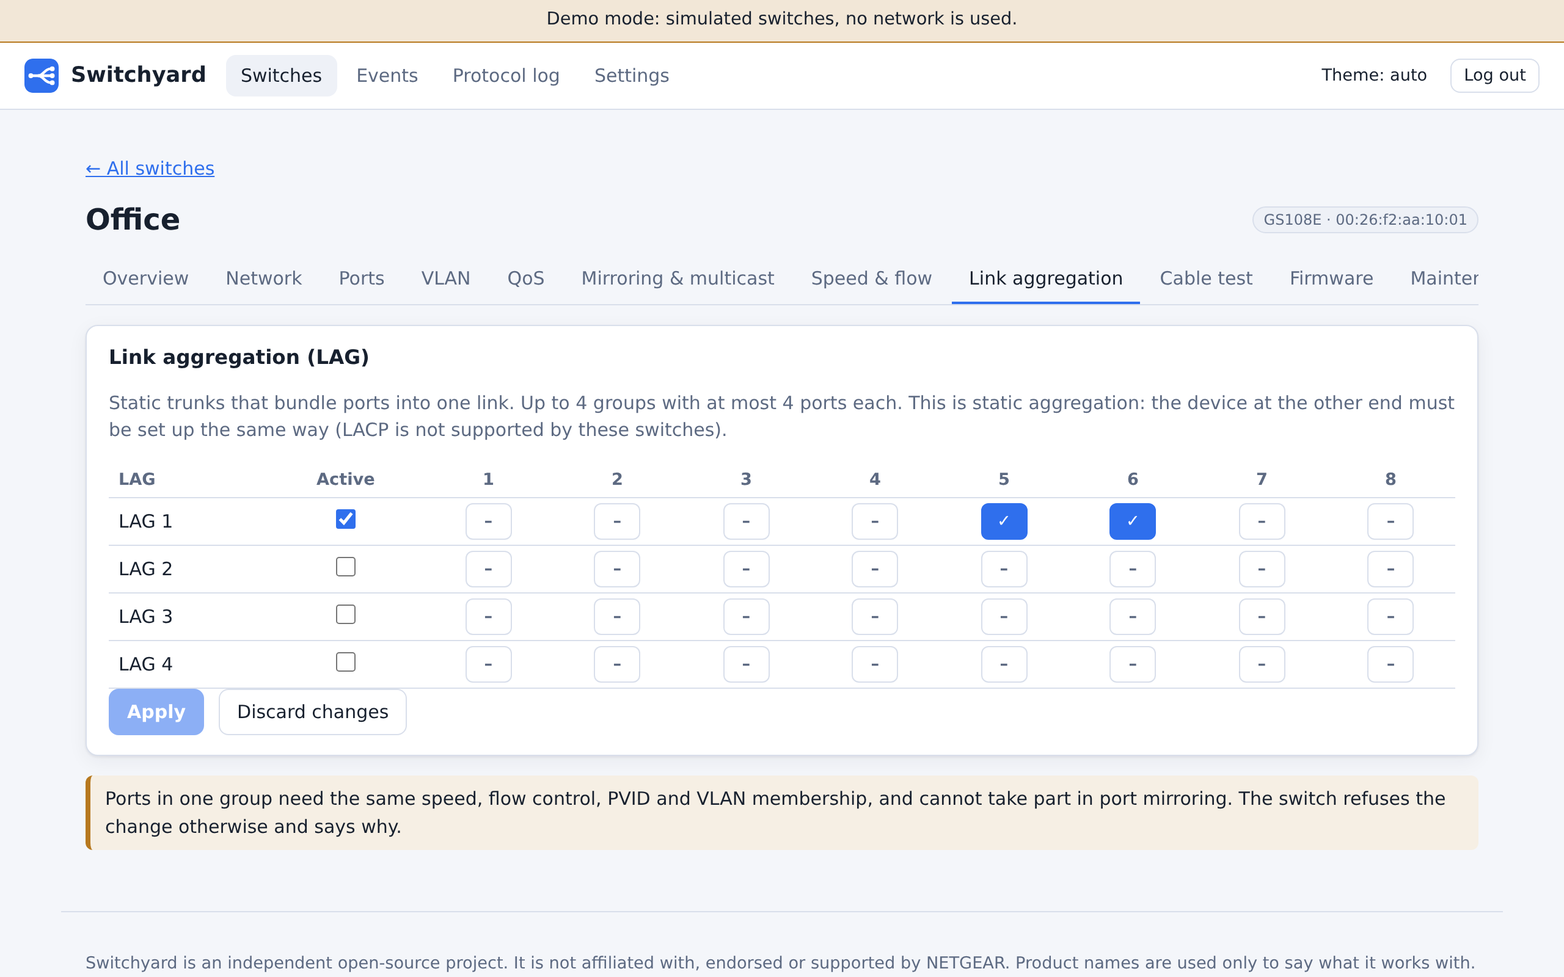
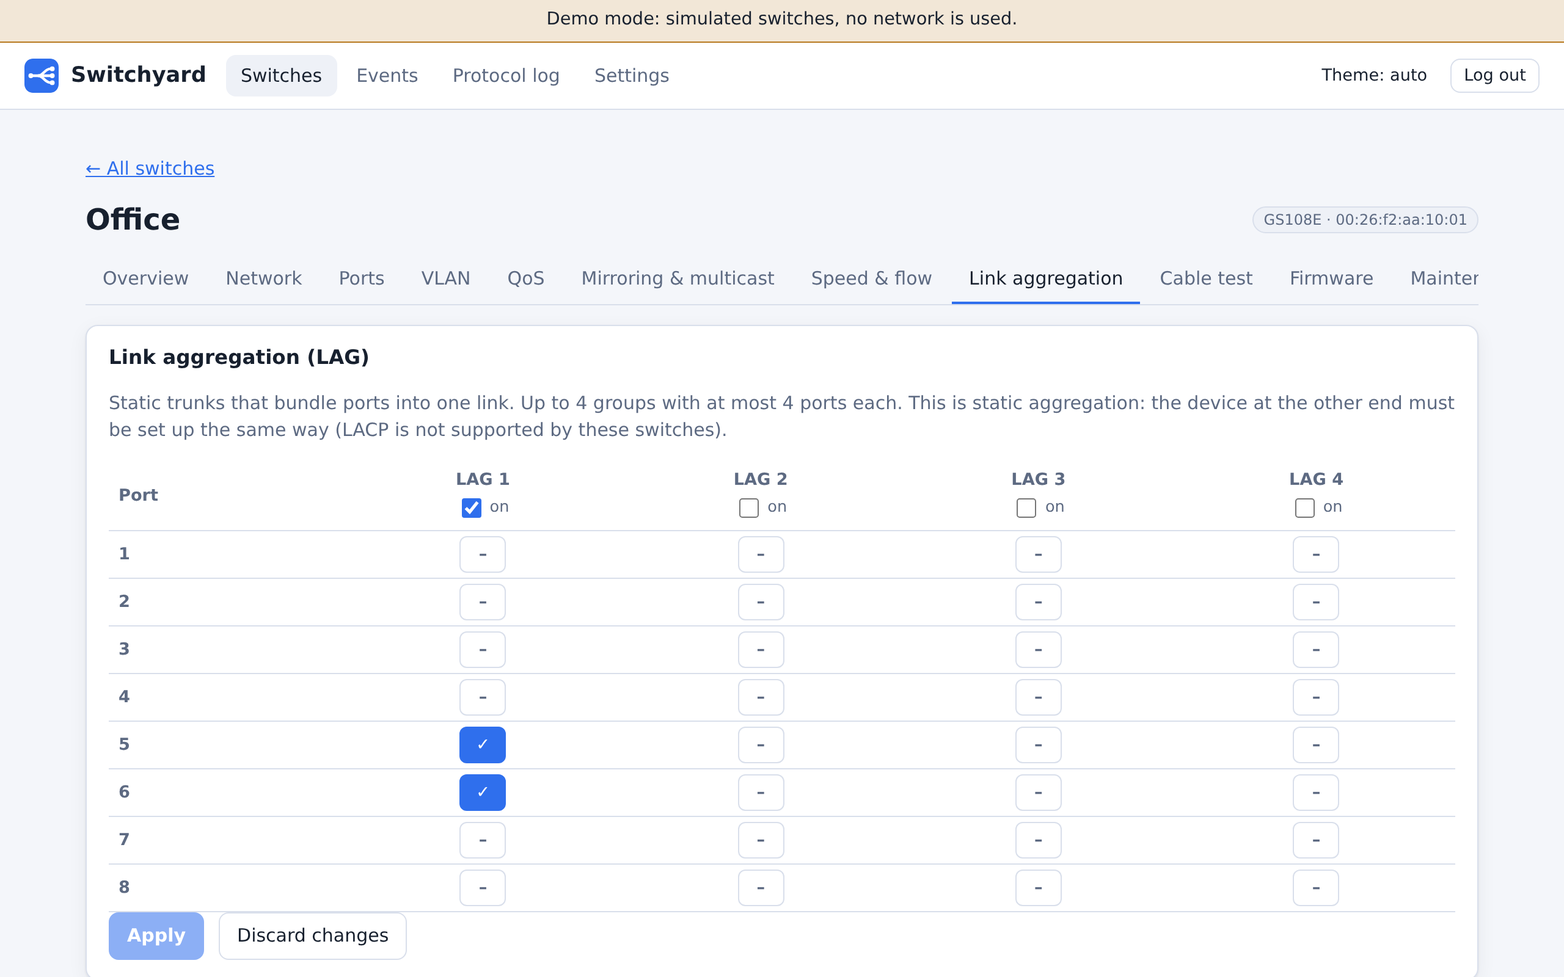
Phone layout without nested scrolling (#55)
- section drop-down instead of the tab strip on small screens; top bar not sticky
- port tables become one block per port (statistics in two columns)
- VLAN, port-group and LAG matrices: ports as rows, VLANs/groups as columns
- chart drawn at the container width; browser test checks every section at 390 px

diff --git a/src/switchyard/web/static/views/tabs.js b/src/switchyard/web/static/views/tabs.js
@@ -6,6 +6,18 @@ import { confirmDialog, field, modal, run, section, select, showError, toast, un
 
 const portName = (S, p) => (S.state.device.port_labels || {})[p] || '';
 const vlanName = (S, id) => (S.state.device.vlan_names || {})[id] || '';
+const portHead = (S, p) => h('th', { scope: 'row', class: 'porthead' }, String(p), portName(S, p) ? h('small', { class: 'muted pname' }, portName(S, p)) : null);
+
+// On small screens a table with this class shows one block per row, each cell with its column name.
+export function stackable(table) {
+  const names = [...table.querySelectorAll('thead th')].map((th) => th.textContent.trim());
+  table.classList.add('stack');
+  for (const row of table.querySelectorAll('tbody tr')) {
+    [...row.children].forEach((cell, i) => { if (names[i]) cell.dataset.label = names[i]; });
+  }
+  return table;
+}
+
 const speedClass = (p) => (p.up ? `s${Math.min(p.speed_mbps || 10, 10000)}` : 'down');
 
 function portPanel(ports, labels = {}) {
@@ -118,13 +130,14 @@ async function ports(host, S) {
         h('td', { class: 'num' }, String(p.crc_errors ?? 0))));
     }
     previous = { t, rows: new Map(rows.map((p) => [p.port, p])) };
+    if (body.parentNode) stackable(body.parentNode);
   };
   draw(S.state.ports, Date.now());
   const clearBtn = h('button', { class: 'btn', 'data-testid': 'clear-counters' }, 'Clear counters');
   clearBtn.addEventListener('click', () => applier(S)(clearBtn, () => post(`${dev(S.mac)}/stats/reset`), 'Counters cleared.'));
   host.append(section('Port status and statistics',
-    h('div', { class: 'table-wrap' }, h('table', {},
-      h('thead', {}, h('tr', {}, ...['Port', 'Link', 'Duplex', 'Received', 'Rx rate', 'Sent', 'Tx rate', 'CRC errors'].map((t, i) => h('th', { class: i > 2 ? 'num' : '' }, t)))), body)),
+    h('div', { class: 'table-wrap' }, stackable(h('table', { class: 'compact' },
+      h('thead', {}, h('tr', {}, ...['Port', 'Link', 'Duplex', 'Received', 'Rx rate', 'Sent', 'Tx rate', 'CRC errors'].map((t, i) => h('th', { class: i > 2 ? 'num' : '' }, t)))), body))),
     h('p', {}, clearBtn)));
   poll(S, async () => draw((await get(`${dev(S.mac)}/ports`)).ports, Date.now()), 3000);
 
@@ -140,7 +153,8 @@ async function ports(host, S) {
       chartBox.append(h('p', { class: 'muted', 'data-testid': 'chart-empty' }, hist.interval ? `Collecting data… the monitor reads the ports every ${hist.interval} s.` : 'The monitor is off. Set monitor.interval_seconds to record traffic history.'));
       return;
     }
-    chartBox.append(drawChart(points), h('div', { class: 'chart-legend' }, h('span', {}, h('i', { class: 'rx' }), 'Received'), h('span', {}, h('i', { class: 'tx' }), 'Sent')));
+    const width = Math.max(320, Math.min(900, chartBox.clientWidth || 760));
+    chartBox.append(drawChart(points, { width, height: width < 500 ? 200 : 220 }), h('div', { class: 'chart-legend' }, h('span', {}, h('i', { class: 'rx' }), 'Received'), h('span', {}, h('i', { class: 'tx' }), 'Sent')));
   };
   which.addEventListener('change', () => drawHistory().catch(showError));
   range.addEventListener('change', () => drawHistory().catch(showError));
@@ -176,8 +190,7 @@ async function vlan(host, S) {
   const matrixBox = h('div', { class: 'table-wrap', 'data-testid': 'vlan-matrix' });
   const applyBtn = h('button', { class: 'btn primary', 'data-testid': 'vlan-apply' }, 'Apply');
   const discard = h('button', { class: 'btn', 'data-testid': 'vlan-discard' }, 'Discard changes');
-  const head = (extra) => h('thead', {}, h('tr', {}, h('th', {}, 'VLAN'), ...allPorts.map((p) => h('th', {}, String(p))), extra));
-
+  
   if (v.mode.startsWith('port')) {
     const original = v.port_vlans.map((g) => ({ id: g.id, members: new Set(g.members) }));
     let model = original.map((g) => ({ id: g.id, members: new Set(g.members) }));
@@ -186,9 +199,11 @@ async function vlan(host, S) {
       const dirty = snapshot(model) !== snapshot(original);
       dirtyNote.hidden = !dirty; applyBtn.disabled = !dirty;
       S.ctx.setDirty(() => dirty);
-      clear(matrixBox).append(h('table', { class: 'matrix' }, head(null), h('tbody', {}, ...model.map((g) => h('tr', { 'data-testid': `vlan-row-${g.id}` },
-        h('td', {}, `Group ${g.id}`), ...allPorts.map((p) => h('td', {}, h('button', { class: `cell ${g.members.has(p) ? 'M' : ''}`, 'aria-pressed': String(g.members.has(p)), 'aria-label': `Group ${g.id}, port ${p}`, 'data-testid': `cell-${g.id}-${p}`,
-          onclick: () => { if (g.members.has(p)) g.members.delete(p); else g.members.add(p); draw(); } }, g.members.has(p) ? '✓' : '–'))))))));
+      clear(matrixBox).append(h('table', { class: 'matrix' },
+        h('thead', {}, h('tr', {}, h('th', {}, 'Port'), ...model.map((g) => h('th', { 'data-testid': `vlan-row-${g.id}` }, `Group ${g.id}`)))),
+        h('tbody', {}, ...allPorts.map((p) => h('tr', {}, portHead(S, p),
+          ...model.map((g) => h('td', {}, h('button', { class: `cell ${g.members.has(p) ? 'M' : ''}`, 'aria-pressed': String(g.members.has(p)), 'aria-label': `Group ${g.id}, port ${p}`, 'data-testid': `cell-${g.id}-${p}`,
+            onclick: () => { if (g.members.has(p)) g.members.delete(p); else g.members.add(p); draw(); } }, g.members.has(p) ? '✓' : '–'))))))));
     };
     draw();
     applyBtn.addEventListener('click', () => apply(applyBtn, () => put(`${dev(S.mac)}/vlan/port-based`, { vlans: model.map((g) => ({ id: g.id, members: [...g.members].sort((a, b) => a - b) })) }), 'VLANs saved.'));
@@ -229,13 +244,15 @@ async function vlan(host, S) {
       if (!options.some(([id]) => Number(id) === pvid[p])) options.unshift([pvid[p], `${pvid[p]} !`]);
       const sel = select(options, pvid[p], { 'aria-label': `PVID of port ${p}`, 'data-testid': `pvid-${p}` });
       sel.addEventListener('change', () => { pvid[p] = Number(sel.value); draw(); });
-      return h('td', {}, sel);
+      return h('td', { class: 'pvid' }, sel);
     };
-    clear(matrixBox).append(h('table', { class: 'matrix' }, head(h('th', {}, '')),
-      h('tbody', {}, ...vlans.map((vl) => h('tr', { 'data-testid': `vlan-row-${vl.id}` }, h('td', {}, `VLAN ${vl.id}`, vlanName(S, vl.id) ? h('small', { class: 'muted' }, ` ${vlanName(S, vl.id)}`) : null), ...allPorts.map((p) => h('td', {}, cellOf(vl, p))),
-        h('td', {}, vl.id === 1 ? null : h('button', { class: 'btn small ghost', 'aria-label': `Remove VLAN ${vl.id}`, 'data-testid': `remove-vlan-${vl.id}`,
-          onclick: () => { vlans = vlans.filter((x) => x !== vl); for (const p of allPorts) if (pvid[p] === vl.id) pvid[p] = 1; draw(); } }, 'Remove')))),
-        h('tr', { class: 'pvid-row' }, h('td', {}, h('b', {}, 'PVID')), ...allPorts.map(pvidCell), h('td', {})))));
+    const vlanHead = (vl) => h('th', { 'data-testid': `vlan-row-${vl.id}` },
+      h('div', {}, `VLAN ${vl.id}`), vlanName(S, vl.id) ? h('small', { class: 'muted vname' }, vlanName(S, vl.id)) : null,
+      vl.id === 1 ? null : h('button', { class: 'btn small ghost xs', 'aria-label': `Remove VLAN ${vl.id}`, 'data-testid': `remove-vlan-${vl.id}`, title: `Remove VLAN ${vl.id}`,
+        onclick: () => { vlans = vlans.filter((x) => x !== vl); for (const p of allPorts) if (pvid[p] === vl.id) pvid[p] = 1; draw(); } }, '✕'));
+    clear(matrixBox).append(h('table', { class: 'matrix' },
+      h('thead', {}, h('tr', {}, h('th', {}, 'Port'), ...vlans.map(vlanHead), h('th', {}, 'PVID'))),
+      h('tbody', {}, ...allPorts.map((p) => h('tr', {}, portHead(S, p), ...vlans.map((vl) => h('td', {}, cellOf(vl, p))), pvidCell(p))))));
   };
   addBtn.addEventListener('click', () => {
     const id = Number(newId.value);
@@ -271,7 +288,7 @@ async function qos(host, S) {
   const rates = Object.entries(S.state.rate_codes).map(([code, kbit]) => [code, fmtLimit(kbit)]);
   const mode = select([['dot1p', '802.1p based'], ['port', 'Port based']], q.mode, { 'data-testid': 'qos-mode' });
   const prio = {}; const ingress = {}; const egress = {}; const storm = {};
-  const table = h('table', {}, h('thead', {}, h('tr', {}, ...['Port', 'Priority', 'Ingress limit', 'Egress limit', 'Storm control rate'].map((t) => h('th', {}, t)))),
+  const table = h('table', { class: 'controls' }, h('thead', {}, h('tr', {}, ...['Port', 'Priority', 'Ingress limit', 'Egress limit', 'Storm control rate'].map((t) => h('th', {}, t)))),
     h('tbody', {}, ...allPorts.map((p) => {
       prio[p] = select(['high', 'medium', 'normal', 'low'].map((x) => [x, x[0].toUpperCase() + x.slice(1)]), q.priorities[p] || 'normal', { 'aria-label': `Priority of port ${p}`, 'data-testid': `prio-${p}` });
       ingress[p] = select(rates, q.ingress[p] ?? 0, { 'aria-label': `Ingress limit of port ${p}`, 'data-testid': `ingress-${p}` });
@@ -279,6 +296,7 @@ async function qos(host, S) {
       storm[p] = select(rates, q.storm_rates[p] ?? 0, { 'aria-label': `Storm control rate of port ${p}`, 'data-testid': `storm-${p}` });
       return h('tr', {}, h('td', {}, String(p)), h('td', {}, prio[p]), h('td', {}, ingress[p]), h('td', {}, egress[p]), h('td', {}, storm[p]));
     })));
+  stackable(table);
   const stormOn = h('input', { type: 'checkbox', checked: Boolean(q.storm_control), disabled: q.storm_control === null, 'data-testid': 'storm-enabled' });
   const sync = () => { for (const p of allPorts) { prio[p].disabled = mode.value !== 'port'; storm[p].disabled = !stormOn.checked; } };
   mode.addEventListener('change', sync); stormOn.addEventListener('change', sync); sync();
@@ -365,8 +383,8 @@ async function cable(host, S) {
     clear(results).append(h('p', { class: 'muted' }, 'Testing… the link on a tested port may drop briefly.'));
     const done = await run(run_, () => withSwitchAuth(S.mac, S.name, () => post(`${dev(S.mac)}/cable-test`, { ports: selected })));
     clear(results);
-    if (done) results.append(h('div', { class: 'table-wrap' }, h('table', {}, h('thead', {}, h('tr', {}, h('th', {}, 'Port'), h('th', {}, 'Result'), h('th', { class: 'num' }, 'Fault distance (m)'))),
-      h('tbody', {}, ...done.results.map((r) => h('tr', { 'data-testid': `cable-${r.port}` }, h('td', {}, String(r.port)), h('td', {}, labels[r.status] || r.status), h('td', { class: 'num' }, r.status === 'ok' ? '–' : String(r.distance_m))))))));
+    if (done) results.append(h('div', { class: 'table-wrap' }, stackable(h('table', {}, h('thead', {}, h('tr', {}, h('th', {}, 'Port'), h('th', {}, 'Result'), h('th', { class: 'num' }, 'Fault distance (m)'))),
+      h('tbody', {}, ...done.results.map((r) => h('tr', { 'data-testid': `cable-${r.port}` }, h('td', {}, String(r.port)), h('td', {}, labels[r.status] || r.status), h('td', { class: 'num' }, r.status === 'ok' ? '–' : String(r.distance_m)))))))));
   });
   host.append(section('Cable test', h('p', { class: 'muted' }, 'Checks the cable on a port for faults and estimates where a fault is.'),
     h('div', { class: 'checks' }, ...allPorts.map((p, i) => h('label', {}, boxes[i], `Port ${p}`))), h('p', {}, run_), results));
@@ -401,7 +419,7 @@ async function portSettings(host, S) {
   });
   host.append(section('Port speed and flow control',
     h('p', { class: 'muted' }, 'Auto negotiates. Fixed speeds need the same setting on the device at the other end. Members of a link aggregation group must share one setting.'),
-    h('div', { class: 'table-wrap' }, h('table', {}, h('thead', {}, h('tr', {}, ...['Port', 'Link now', 'Speed setting', 'Flow control'].map((t) => h('th', {}, t)))), h('tbody', {}, rows))),
+    h('div', { class: 'table-wrap' }, stackable(h('table', { class: 'controls' }, h('thead', {}, h('tr', {}, ...['Port', 'Link now', 'Speed setting', 'Flow control'].map((t) => h('th', {}, t)))), h('tbody', {}, rows)))),
     h('p', {}, save)));
 }
 
@@ -441,11 +459,11 @@ async function lagTab(host, S) {
     S.ctx.setDirty(() => dirty);
     clear(errBox).append(...errors.map((e) => h('div', {}, e)));
     clear(box).append(h('table', { class: 'matrix' },
-      h('thead', {}, h('tr', {}, h('th', {}, 'LAG'), h('th', {}, 'Active'), ...allPorts.map((p) => h('th', {}, String(p))))),
-      h('tbody', {}, ...model.map((g) => h('tr', { 'data-testid': `lag-row-${g.id}` },
-        h('td', {}, `LAG ${g.id}`),
-        h('td', {}, h('input', { type: 'checkbox', checked: g.enabled, 'aria-label': `LAG ${g.id} active`, 'data-testid': `lag-on-${g.id}`, onchange: (e) => { g.enabled = e.target.checked; draw(); } })),
-        ...allPorts.map((p) => h('td', {}, h('button', { class: `cell ${g.members.has(p) ? 'M' : ''}`, disabled: !g.enabled, 'aria-pressed': String(g.members.has(p)), 'aria-label': `LAG ${g.id}, port ${p}`, 'data-testid': `lag-cell-${g.id}-${p}`,
+      h('thead', {}, h('tr', {}, h('th', {}, 'Port'), ...model.map((g) => h('th', { 'data-testid': `lag-row-${g.id}` },
+        h('div', {}, `LAG ${g.id}`),
+        h('label', { class: 'check mini' }, h('input', { type: 'checkbox', checked: g.enabled, 'aria-label': `LAG ${g.id} active`, 'data-testid': `lag-on-${g.id}`, onchange: (e) => { g.enabled = e.target.checked; draw(); } }), 'on'))))),
+      h('tbody', {}, ...allPorts.map((p) => h('tr', {}, portHead(S, p),
+        ...model.map((g) => h('td', {}, h('button', { class: `cell ${g.members.has(p) ? 'M' : ''}`, disabled: !g.enabled, 'aria-pressed': String(g.members.has(p)), 'aria-label': `LAG ${g.id}, port ${p}`, 'data-testid': `lag-cell-${g.id}-${p}`,
           onclick: () => { if (g.members.has(p)) g.members.delete(p); else g.members.add(p); draw(); } }, g.members.has(p) ? '✓' : '–'))))))));
   };
   save.addEventListener('click', () => apply(save, () => put(`${dev(S.mac)}/lag`, { lags: model.map((g) => ({ id: g.id, enabled: g.enabled, members: g.enabled ? [...g.members].sort((a, b) => a - b) : [] })) }), 'Link aggregation saved.'));
@@ -630,6 +648,7 @@ async function maintenance(host, S) {
           h('a', { class: 'btn small', href: `/api${dev(S.mac)}/backups/${name}`, download: name }, 'Download'),
           h('button', { class: 'btn small ghost', 'data-testid': 'backup-delete', onclick: (e) => run(e.target, async () => { await del(`${dev(S.mac)}/backups/${name}`); await loadBackups(); }) }, 'Delete')))));
     }
+    if (backupRows.parentNode) stackable(backupRows.parentNode);
   };
   const backupNow = h('button', { class: 'btn', 'data-testid': 'backup-now' }, 'Back up now');
   backupNow.addEventListener('click', () => run(backupNow, async () => { await post(`${dev(S.mac)}/backups`); toast('Backup stored.'); await loadBackups(); }));
@@ -655,7 +674,7 @@ async function maintenance(host, S) {
     section('This entry', field('Label', label), field('Notes', notes), field('Fixed address', address, 'Set this for a switch on another subnet; Switchyard then talks to it directly.'),
       h('div', { class: 'row' }, saveMeta, forget, remove)),
     section('Automatic backups', h('p', { class: 'muted' }, 'Stored on the server in the data folder. Backups contain the configuration, never passwords.'),
-      h('div', { class: 'table-wrap' }, h('table', {}, h('thead', {}, h('tr', {}, h('th', {}, 'Created'), h('th', { class: 'num' }, 'Size'), h('th', {}, ''))), backupRows)), h('p', {}, backupNow)),
+      h('div', { class: 'table-wrap' }, h('table', { class: 'backups' }, h('thead', {}, h('tr', {}, h('th', {}, 'Created'), h('th', { class: 'num' }, 'Size'), h('th', {}, ''))), backupRows)), h('p', {}, backupNow)),
     section('Diagnostics', h('p', { class: 'muted' }, 'Reads each known setting once and shows which ones this switch answers, with the raw bytes. Nothing is changed. Paste the result into a hardware report to help support more models.'),
       h('div', { class: 'row' }, scanBtn, copyBtn), scanOut),
     section('Port and VLAN names', h('p', { class: 'muted' }, 'Names are kept by Switchyard (not on the switch) and shown in the port panel, the tables and the editors.'),

diff --git a/src/switchyard/web/static/style.css b/src/switchyard/web/static/style.css
@@ -161,3 +161,38 @@ hr { border: 0; border-top: 1px solid var(--border); margin: 14px 0; }
 .tile b { font-size: 1.4rem; }
 td.num, th.num { white-space: nowrap; }
 [data-testid="stats-body"] td { white-space: nowrap; }
+
+/* ---------------------------------------------------------- small screens */
+.tab-select { display: none; }
+.matrix .porthead { text-align: left; white-space: nowrap; }
+.matrix .pname, .matrix .vname { display: block; font-weight: 400; max-width: 7em; overflow: hidden; text-overflow: ellipsis; }
+.matrix th .btn.xs { padding: 0 6px; font-size: .75rem; margin-top: 2px; }
+.check.mini { display: inline-flex; gap: 4px; font-weight: 400; font-size: .8rem; margin: 2px 0 0; }
+@media (max-width: 640px) {
+  .topbar { position: static; padding: 8px 10px; }
+  .topbar-actions .btn { padding: 3px 8px; }
+  .nav a { padding: 6px 8px; }
+  main { padding: 10px 10px 24px; }
+  .card { padding: 12px; border-radius: 8px; }
+  .page-head { margin-bottom: 8px; }
+  .page-head h1 { font-size: 1.25rem; }
+  p.back { margin: 0 0 6px; }
+  .tabs { display: none; }
+  .tab-select { display: block; width: 100%; max-width: none; margin: 0 0 12px; font-weight: 600; }
+  input[type=text], input[type=password], input[type=number], select, textarea { max-width: none; }
+  table.stack thead { display: none; }
+  table.stack, table.stack tbody, table.stack tr, table.stack td { display: block; width: 100%; }
+  table.stack tr { border-bottom: 1px solid var(--border); padding: 6px 0; }
+  table.stack td { display: flex; justify-content: flex-end; align-items: center; gap: 6px; border: 0; padding: 3px 0; white-space: normal; text-align: right; }
+  table.stack td::before { content: attr(data-label); color: var(--muted); font-weight: 600; text-align: left; flex: none; margin-right: auto; }
+  table.stack.compact tr { display: grid; grid-template-columns: 1fr 1fr; column-gap: 18px; }
+  table.stack.compact td:first-child { grid-column: 1 / -1; }
+  table.stack.compact td { font-size: .9rem; }
+  table.stack td > select { width: auto; max-width: 62%; }
+  table.stack td:first-child { font-weight: 700; }
+  .matrix .cell { width: 34px; height: 30px; }
+  .matrix th, .matrix td { padding: 3px 2px; }
+  .matrix select { width: 58px; }
+  .chart { max-height: 200px; }
+  .modal { padding: 16px; }
+}

diff --git a/src/switchyard/web/static/views/events.js b/src/switchyard/web/static/views/events.js
@@ -1,5 +1,6 @@
 import { get } from '../api.js';
 import { clear, h } from '../util.js';
+import { stackable } from './tabs.js';
 
 const LABELS = { link_up: 'link up', link_down: 'link down', speed_change: 'speed', online: 'online', offline: 'offline' };
 
@@ -23,6 +24,7 @@ export async function renderEvents(main, ctx) {
       body.append(h('tr', { class: 'event-row', 'data-testid': 'event-row' },
         h('td', {}, new Date(e.time * 1000).toLocaleString()), h('td', {}, e.switch), h('td', {}, h('span', { class: `tag ${e.type}` }, LABELS[e.type] || e.type)), h('td', {}, e.text)));
     }
+    stackable(body.parentNode);
   };
   const fetchMore = async () => {
     const { events: more } = await get(`/events?after=${last}`);
@@ -40,6 +42,7 @@ export async function renderEvents(main, ctx) {
       auditBody.append(h('tr', { 'data-testid': 'audit-row' }, h('td', {}, new Date(e.time * 1000).toLocaleString()), h('td', {}, e.role),
         h('td', { class: 'mono' }, `${e.method} ${e.route.replace('/api/devices/{mac}', '')}`), h('td', { class: 'mono' }, e.switch || '–')));
     }
+    stackable(auditBody.parentNode);
   };
   await drawAudit();
   filter.addEventListener('change', draw);

diff --git a/src/switchyard/web/static/views/switches.js b/src/switchyard/web/static/views/switches.js
@@ -1,6 +1,7 @@
 import { get, post } from '../api.js';
 import { clear, fmtAgo, h, isIPv4 } from '../util.js';
 import { modal, run, toast } from '../ui.js';
+import { stackable } from './tabs.js';
 
 function card(d) {
   const info = d.info || {};
@@ -107,8 +108,8 @@ export async function renderSwitches(main, ctx) {
         h('td', {}, h('button', { class: 'btn small primary', 'data-testid': 'add-found', onclick: async (e) => {
           await run(e.target, async () => { await post('/devices', { mac: f.mac }); toast(`Added ${f.model || 'switch'}.`); await refresh(); });
         } }, 'Add'))));
-      body.append(h('div', { class: 'table-wrap' }, h('table', {},
-        h('thead', {}, h('tr', {}, ...['Name', 'Model', 'IP', 'MAC', 'Firmware', ''].map((t) => h('th', {}, t)))), h('tbody', {}, rows))));
+      body.append(h('div', { class: 'table-wrap' }, stackable(h('table', {},
+        h('thead', {}, h('tr', {}, ...['Name', 'Model', 'IP', 'MAC', 'Firmware', ''].map((t) => h('th', {}, t)))), h('tbody', {}, rows)))));
     }
     foundBox.append(body);
   }

diff --git a/src/switchyard/web/static/views/detail.js b/src/switchyard/web/static/views/detail.js
@@ -11,7 +11,10 @@ export async function renderDetail(main, ctx, route) {
   const header = h('div', { class: 'page-head' });
   const tabs = h('nav', { class: 'tabs', 'aria-label': 'Switch sections' },
     ...TABS.map((t) => h('a', { href: `#/switch/${encodeURIComponent(mac)}/${t.id}`, 'aria-current': t.id === tab.id ? 'page' : null, 'data-testid': `tab-${t.id}` }, t.label)));
-  main.append(h('p', {}, h('a', { href: '#/' }, '← All switches')), header, tabs, host);
+  const picker = h('select', { class: 'tab-select', 'aria-label': 'Section', 'data-testid': 'tab-select' },
+    ...TABS.map((t) => h('option', { value: t.id, selected: t.id === tab.id }, t.label)));
+  picker.addEventListener('change', () => ctx.navigate(`#/switch/${encodeURIComponent(mac)}/${picker.value}`));
+  main.append(h('p', { class: 'back' }, h('a', { href: '#/' }, '← All switches')), header, tabs, picker, host);
 
   const S = {
     mac, state: null, ctx, host,

diff --git a/src/switchyard/web/static/views/log.js b/src/switchyard/web/static/views/log.js
@@ -1,6 +1,7 @@
 import { get } from '../api.js';
 import { clear, h } from '../util.js';
 import { toast } from '../ui.js';
+import { stackable } from './tabs.js';
 
 export async function renderLog(main, ctx) {
   let last = 0;
@@ -31,6 +32,7 @@ export async function renderLog(main, ctx) {
       tr.addEventListener('keydown', (ev) => { if (ev.key === 'Enter') toggle(); });
       body.append(tr);
     }
+    stackable(body.parentNode);
   };
   const fetchMore = async () => {
     if (paused) return;

diff --git a/tests/e2e/test_ui.py b/tests/e2e/test_ui.py
@@ -600,3 +600,38 @@ def test_no_stray_text_outside_demo_mode(page, tmp_path):
         )
     finally:
         server.stop()
+
+
+def test_phone_layout_needs_no_sideways_scrolling(app):
+    add_switch(app, MAC, "password")
+    api(app, "PUT", f"/devices/{MAC}/vlan/mode", {"mode": "dot1q_advanced"})
+    app.set_viewport_size({"width": 390, "height": 844})
+    open_tab(app, "overview")
+    picker = app.get_by_test_id("tab-select")
+    expect(picker).to_be_visible()
+    expect(app.get_by_test_id("tab-vlan")).to_be_hidden()  # the tab strip is replaced on phones
+    picker.select_option("vlan")
+    expect(app.get_by_test_id("vlan-matrix")).to_be_visible()
+    for tab in (
+        "overview",
+        "ports",
+        "vlan",
+        "qos",
+        "features",
+        "ports-config",
+        "lag",
+        "cable",
+        "firmware",
+        "maintenance",
+    ):
+        open_tab(app, tab)
+        app.wait_for_timeout(300)
+        wide = app.evaluate(
+            "[document.documentElement.scrollWidth, window.innerWidth, ...[...document"
+            ".querySelectorAll('.table-wrap')].map(e => e.scrollWidth - e.clientWidth)]"
+        )
+        assert wide[0] <= wide[1] + 1 and all(x <= 1 for x in wide[2:]), (tab, wide)
+    # the statistics become one block per port, each value with its label
+    open_tab(app, "ports")
+    assert app.locator('[data-testid="stat-1"] td[data-label="Received"]').count() == 1
+    assert app.locator("table.stack thead").first.is_hidden()

diff --git a/CHANGELOG.md b/CHANGELOG.md
@@ -14,6 +14,9 @@ All notable changes. Format: [Keep a Changelog](https://keepachangelog.com/en/1.
   new `switchyard reset-password` (#48).
 
 ### Fixed
+- Phone layout: no sideways scrolling; section drop-down instead of the tab strip, one block per port in tables, VLAN and LAG matrices with ports as rows (#55).
+- GS108E v1 firmware that answers an empty reply when a read contains an unknown setting: identity, mirroring and IGMP were missing (#53).
+- Stray 'null' text above the header outside demo mode (#54).
 - An unwritable data folder (bind mount owned by another user) stops with a clear message
   instead of a traceback; the requirements are documented (#52).
 - Add by IP through a router on hosts with several interfaces: unicast now leaves with the
